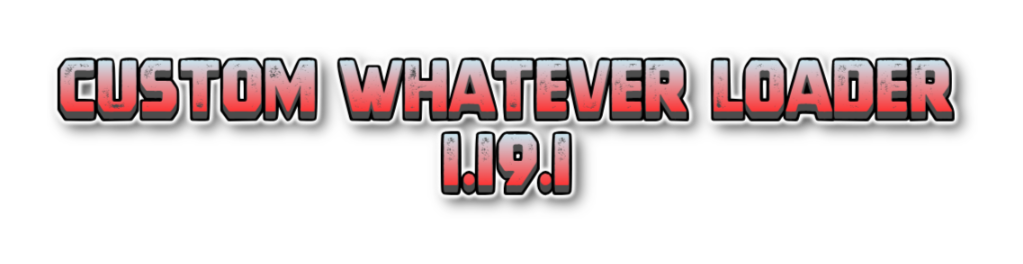
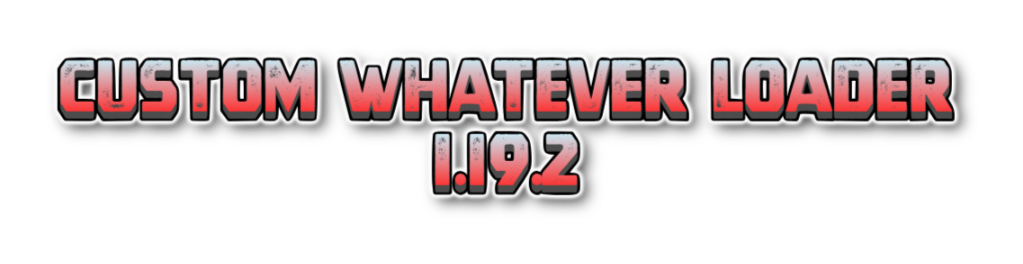
fix!(CWL): test type load before caching

Changed region(s): [[0.4242, 0.4848, 0.6061, 0.7879]]

diff --git a/CustomWhateverLoader/Helper/Runtime/TypeQualifier.cs b/CustomWhateverLoader/Helper/Runtime/TypeQualifier.cs
@@ -54,11 +54,14 @@ public class TypeQualifier
     internal static void SafeQueryTypesOfAll()
     {
         Plugins ??= Resources.FindObjectsOfTypeAll<BaseUnityPlugin>().ToList();
-
         Declared.Clear();
+        
         foreach (var plugin in Plugins.ToArray()) {
             try {
-                Declared.AddRange(plugin.GetType().Assembly.DefinedTypes);
+                var types = plugin.GetType().Assembly.DefinedTypes.ToArray();
+                // test cast for missing dependency
+                _ = types.Select(ti => typeof(object).IsAssignableFrom(ti)).ToArray();
+                Declared.AddRange(types);
             } catch {
                 CwlMod.Warn<TypeQualifier>("cwl_warn_decltype_missing".Loc(plugin.Info.Metadata.GUID));
                 Plugins.Remove(plugin);

diff --git a/CustomWhateverLoader/Loader/CustomWhateverLoader.cs b/CustomWhateverLoader/Loader/CustomWhateverLoader.cs
@@ -10,7 +10,7 @@ public static class ModInfo
     // for legacy reason
     public const string Guid = "dk.elinplugins.customdialogloader";
     public const string Name = "Custom Whatever Loader";
-    public const string Version = "1.19.1";
+    public const string Version = "1.19.2";
 }
 
 [BepInPlugin(ModInfo.Guid, ModInfo.Name, ModInfo.Version)]
